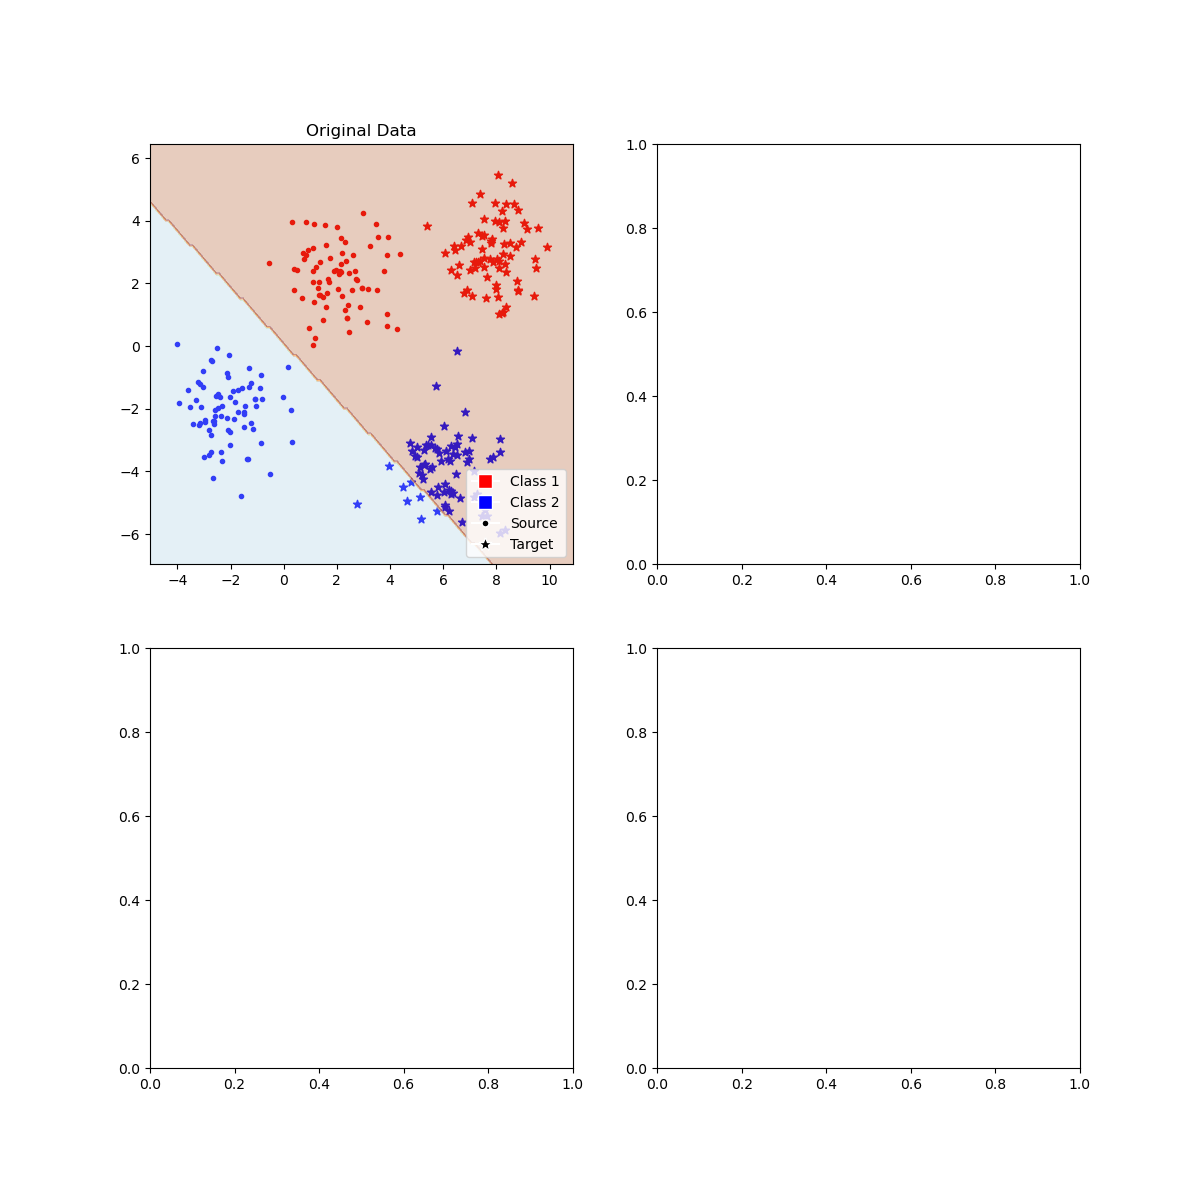
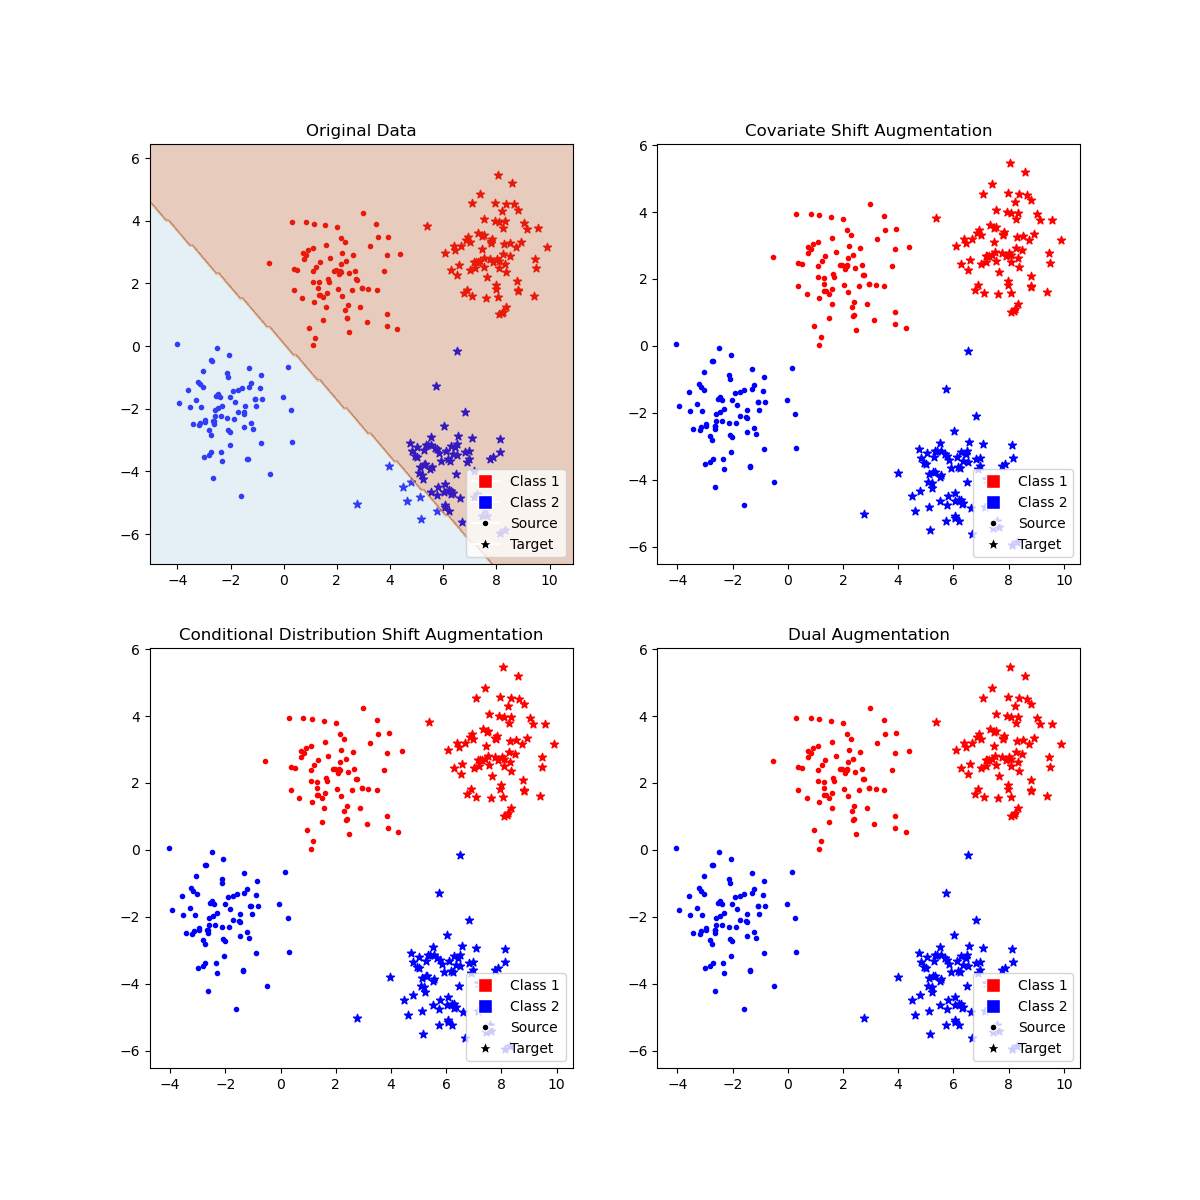
update

diff --git a/data_plot.py b/data_plot.py
@@ -13,11 +13,12 @@ fig, axes = plt.subplots(2, 2, figsize=(12, 12))
 np.random.seed(0)
 s_class_1 = np.random.multivariate_normal([2, 2], [[1, 0], [0, 1]], num_data)
 s_class_2 = np.random.multivariate_normal([-2, -2], [[1, 0], [0, 1]], num_data)
-axes[0, 0].scatter(s_class_1[:, 0], s_class_1[:, 1], color='red', marker='.', label='Class 1 (Source)')
-axes[0, 0].scatter(s_class_2[:, 0], s_class_2[:, 1], color='blue', marker='.', label='Class 2 (Source)')
 np.random.seed(42)
 t_class_1 = np.random.multivariate_normal([2, 2], [[1, 0], [0, 1]], num_data) + [6, 1]
 t_class_2 = np.random.multivariate_normal([-2, -2], [[1, 0], [0, 1]], num_data) + [8, -2]
+
+axes[0, 0].scatter(s_class_1[:, 0], s_class_1[:, 1], color='red', marker='.', label='Class 1 (Source)')
+axes[0, 0].scatter(s_class_2[:, 0], s_class_2[:, 1], color='blue', marker='.', label='Class 2 (Source)')
 axes[0, 0].scatter(t_class_1[:, 0], t_class_1[:, 1], color='red', marker='*', label='Class 1 (Target)')
 axes[0, 0].scatter(t_class_2[:, 0], t_class_2[:, 1], color='blue', marker='*', label='Class 2 (Target)')
 # Plot Decision Boundary
@@ -44,23 +45,35 @@ axes[0, 0].legend(handles=legend_elements, loc='lower right')
 # Simulate covariate shift by adding some noise
 # class_1_shifted = class_1 + np.random.normal(0, 0.5, class_1.shape)
 # class_2_shifted = class_2 + np.random.normal(0, 0.5, class_2.shape)
-# axes[1].scatter(class_1[:, 0], class_1[:, 1], color='orange', marker='x', label='Class 1 (Source)')
-# axes[1].scatter(class_2[:, 0], class_2[:, 1], color='red', marker='x', label='Class 2 (Source)')
+axes[0, 1].scatter(s_class_1[:, 0], s_class_1[:, 1], color='red', marker='.', label='Class 1 (Source)')
+axes[0, 1].scatter(s_class_2[:, 0], s_class_2[:, 1], color='blue', marker='.', label='Class 2 (Source)')
+axes[0, 1].scatter(t_class_1[:, 0], t_class_1[:, 1], color='red', marker='*', label='Class 1 (Target)')
+axes[0, 1].scatter(t_class_2[:, 0], t_class_2[:, 1], color='blue', marker='*', label='Class 2 (Target)')
 # axes[1].scatter(class_1_shifted[:, 0], class_1_shifted[:, 1], marker='x', color='pink', label='Class 1 (Covariate Shift)')
 # axes[1].scatter(class_2_shifted[:, 0], class_2_shifted[:, 1], marker='x', color='purple', label='Class 2 (Covariate Shift)')
-# axes[1].set_title('Covariate Shift')
-# axes[1].legend()
+axes[0, 1].set_title('Covariate Shift Augmentation')
+axes[0, 1].legend(handles=legend_elements, loc='lower right')
 
 # Conditional Distribution Shift Plot
 # Simulate conditional distribution shift by shifting means
 # class_1_cond_shift = class_1 + [1.5, 1.5]
 # class_2_cond_shift = class_2 + [-1.5, -1.5]
-# axes[2].scatter(class_1[:, 0], class_1[:, 1], color='orange', marker='x', label='Class 1 (Source)')
-# axes[2].scatter(class_2[:, 0], class_2[:, 1], color='red', marker='x', label='Class 2 (Source)')
+axes[1, 0].scatter(s_class_1[:, 0], s_class_1[:, 1], color='red', marker='.', label='Class 1 (Source)')
+axes[1, 0].scatter(s_class_2[:, 0], s_class_2[:, 1], color='blue', marker='.', label='Class 2 (Source)')
+axes[1, 0].scatter(t_class_1[:, 0], t_class_1[:, 1], color='red', marker='*', label='Class 1 (Target)')
+axes[1, 0].scatter(t_class_2[:, 0], t_class_2[:, 1], color='blue', marker='*', label='Class 2 (Target)')
 # axes[2].scatter(class_1_cond_shift[:, 0], class_1_cond_shift[:, 1], color='pink', marker='x', label='Class 1 (Conditional Shift)')
 # axes[2].scatter(class_2_cond_shift[:, 0], class_2_cond_shift[:, 1], color='purple', marker='x', label='Class 2 (Conditional Shift)')
-# axes[2].set_title('Conditional Distribution Shift')
-# axes[2].legend()
+axes[1, 0].set_title('Conditional Distribution Shift Augmentation')
+axes[1, 0].legend(handles=legend_elements, loc='lower right')
+
+# Covariate and Conditional Distribution Shift
+axes[1, 1].scatter(s_class_1[:, 0], s_class_1[:, 1], color='red', marker='.', label='Class 1 (Source)')
+axes[1, 1].scatter(s_class_2[:, 0], s_class_2[:, 1], color='blue', marker='.', label='Class 2 (Source)')
+axes[1, 1].scatter(t_class_1[:, 0], t_class_1[:, 1], color='red', marker='*', label='Class 1 (Target)')
+axes[1, 1].scatter(t_class_2[:, 0], t_class_2[:, 1], color='blue', marker='*', label='Class 2 (Target)')
+axes[1, 1].set_title('Dual Augmentation')
+axes[1, 1].legend(handles=legend_elements, loc='lower right')
 
 plt.show()
 plt.savefig("plot.png")
